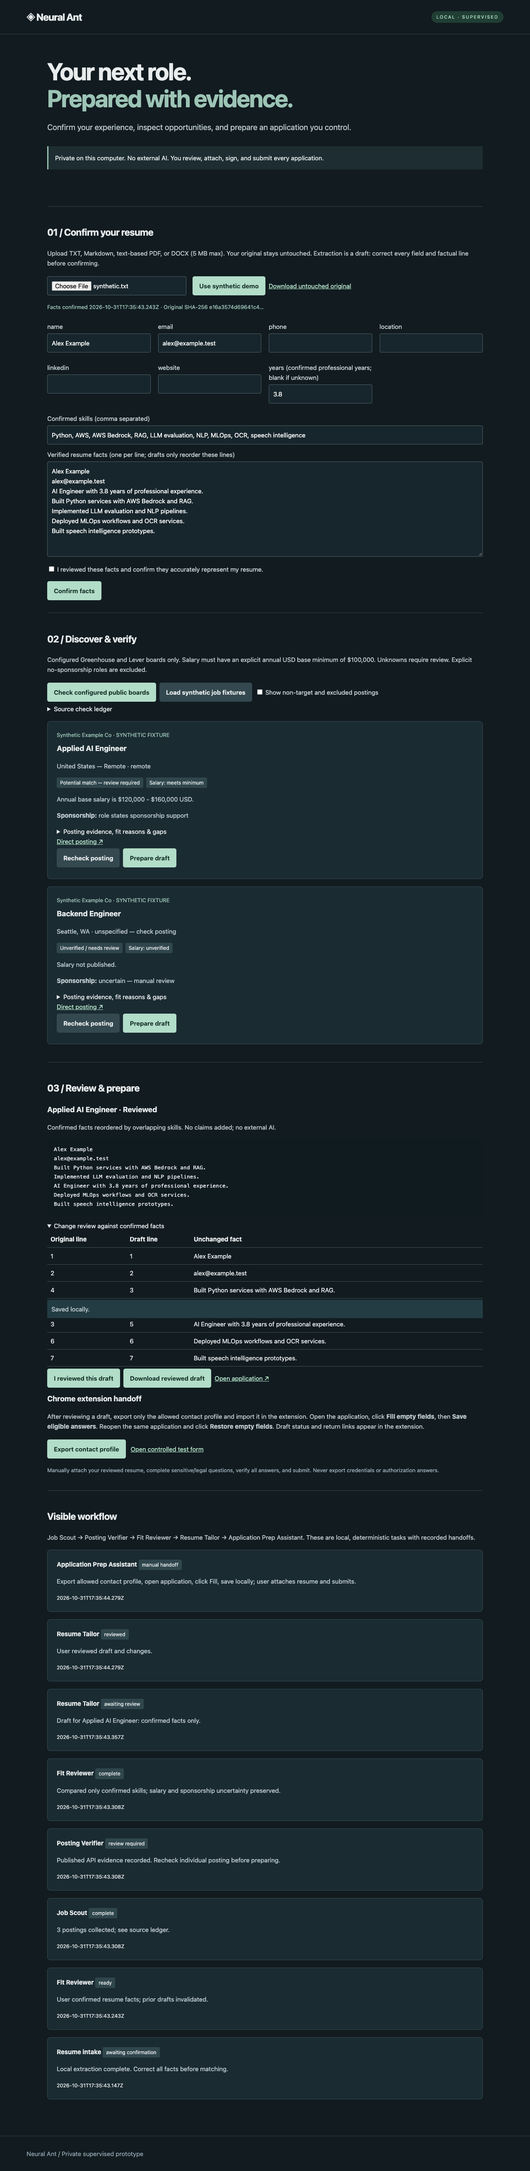
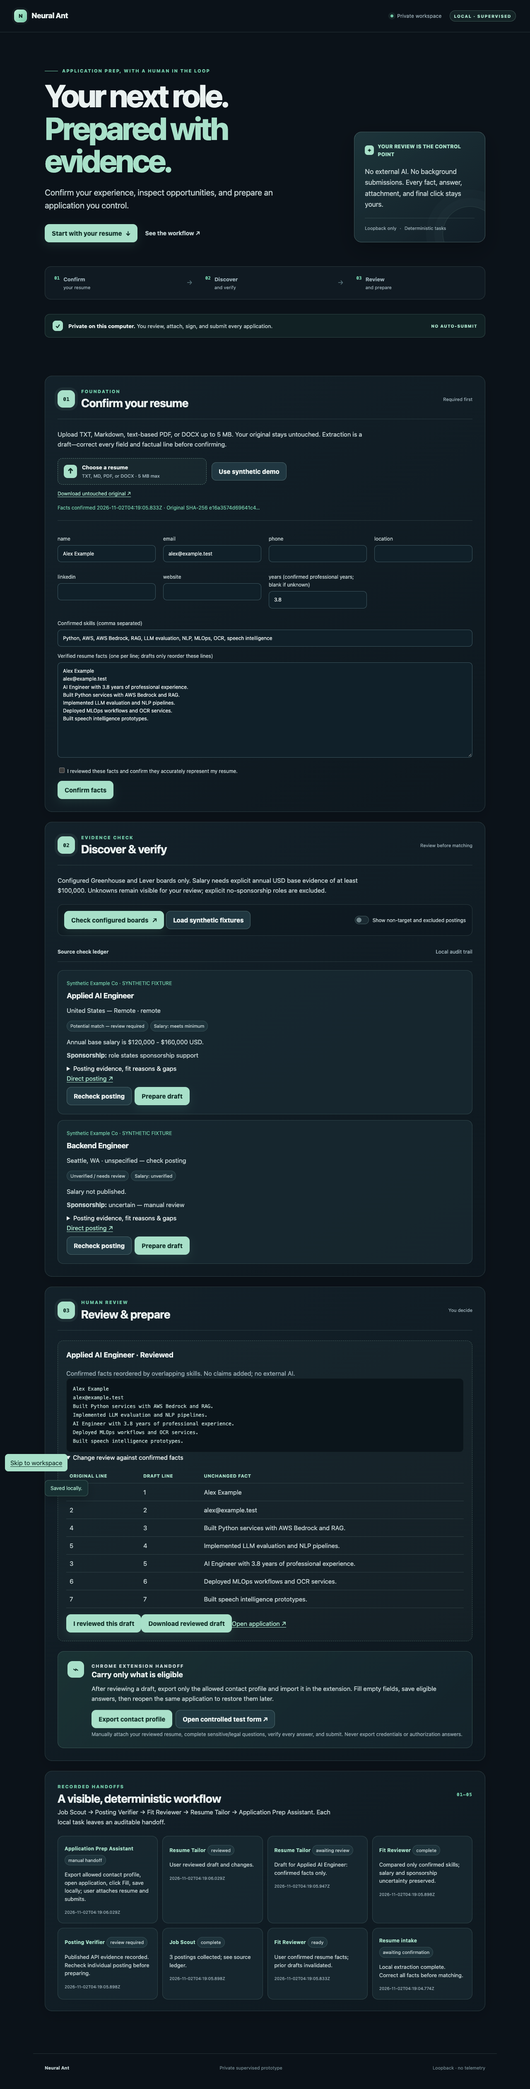
Refresh supervised prototype workspace UI

diff --git a/supervised-prototype/public/style.css b/supervised-prototype/public/style.css
@@ -1,1 +1,202 @@
-:root{font-family:Inter,ui-sans-serif,system-ui,sans-serif;color:#e8eced;background:#111b20;font-size:15px;line-height:1.6}*{box-sizing:border-box}body{margin:0}header{display:flex;justify-content:space-between;align-items:center;border-bottom:1px solid #304047;padding:22px 5vw}.brand{font-size:24px;font-weight:750;letter-spacing:-1px}.pill{color:#b5e4ca;background:#203e34;padding:5px 12px;border-radius:30px;font-size:11px;letter-spacing:2px}main{max-width:1100px;margin:auto;padding:45px 24px}h1{font-size:clamp(36px,5vw,58px);line-height:1.12;letter-spacing:-2px;margin:12px 0 22px}h1 span{color:#9cc4b5}.lede{font-size:19px;color:#b9c7cc}.notice{border-left:3px solid #9cc4b5;background:#1d2d32;padding:16px;margin:30px 0}section{border-top:1px solid #35444a;padding:25px 0}h2{font-size:23px;letter-spacing:-.5px}h3{font-size:18px;margin:8px 0}p{color:#becbd0}button,.button{border:0;border-radius:5px;background:#b2ddc8;color:#102a23;padding:11px 16px;font:inherit;font-weight:650;cursor:pointer;margin:5px 8px 5px 0}button:disabled{opacity:.4;cursor:wait}.secondary{background:#34484f;color:#e8eced}a{color:#b5e4ca}input,textarea{font:inherit;background:#17262c;border:1px solid #506168;border-radius:4px;padding:10px;color:#fff;width:100%;margin-top:5px}input[type=checkbox]{width:auto}input[type=file]{width:auto;margin-right:15px}label{display:block;color:#c8d5da;margin:12px 0}label.inline{display:inline-block}textarea{min-height:130px}#facts{min-height:230px}.grid{display:grid;grid-template-columns:repeat(auto-fit,minmax(230px,1fr));gap:0 18px}.card{background:#1b2b32;border:1px solid #354b52;padding:22px;margin:18px 0;border-radius:8px}.meta{color:#9cc4b5;font-size:13px}.muted{font-size:13px;color:#a3b6bf}pre{white-space:pre-wrap;overflow-wrap:anywhere;font:13px/1.7 ui-monospace,monospace;background:#101b20;padding:16px;max-height:450px;overflow:auto}.tag{display:inline-block;background:#30464d;padding:3px 8px;font-size:12px;border-radius:3px;margin-right:7px}.warning{color:#f3c78d}#status{position:sticky;top:0;background:#233c43;z-index:1;padding:10px}#status:empty{display:none}footer{padding:30px 5vw;border-top:1px solid #35444a;color:#8ea3ac}summary{cursor:pointer}table{width:100%;border-collapse:collapse}td,th{text-align:left;border-bottom:1px solid #40535a;padding:8px}
+:root {
+  color-scheme: dark;
+  font-family: Inter, ui-sans-serif, system-ui, -apple-system, BlinkMacSystemFont, "Segoe UI", sans-serif;
+  color: #eaf1f0;
+  background: #0b1219;
+  font-size: 15px;
+  line-height: 1.6;
+  --bg: #0b1219;
+  --surface: rgba(19, 31, 40, .82);
+  --surface-strong: #14232c;
+  --surface-soft: #172a33;
+  --line: rgba(173, 214, 205, .16);
+  --line-strong: rgba(173, 214, 205, .28);
+  --text: #eaf1f0;
+  --muted: #9eb1b9;
+  --muted-strong: #c3d1d2;
+  --mint: #a8e0c9;
+  --mint-strong: #72caa8;
+  --mint-ink: #0d2b24;
+  --amber: #f2c988;
+  --shadow: 0 18px 55px rgba(0, 0, 0, .25);
+  --radius: 18px;
+}
+
+* { box-sizing: border-box; }
+html { scroll-behavior: smooth; }
+body { min-width: 320px; margin: 0; overflow-x: hidden; background: radial-gradient(circle at 75% -10%, #1c3940 0, transparent 33rem), var(--bg); }
+body::before { position: fixed; inset: 0; z-index: -2; pointer-events: none; content: ""; opacity: .22; background-image: linear-gradient(rgba(171, 215, 205, .035) 1px, transparent 1px), linear-gradient(90deg, rgba(171, 215, 205, .035) 1px, transparent 1px); background-size: 48px 48px; mask-image: linear-gradient(to bottom, #000, transparent 86%); }
+a { color: var(--mint); text-underline-offset: 3px; }
+a:hover { color: #d7f7e9; }
+button, .button { display: inline-flex; align-items: center; justify-content: center; gap: 9px; min-height: 44px; border: 1px solid transparent; border-radius: 11px; padding: 10px 16px; color: var(--mint-ink); background: var(--mint); font: inherit; font-weight: 750; line-height: 1.2; cursor: pointer; text-decoration: none; box-shadow: 0 8px 22px rgba(112, 200, 166, .12); transition: transform .2s ease, box-shadow .2s ease, background .2s ease, border-color .2s ease; }
+button:hover:not(:disabled), .button:hover { transform: translateY(-2px); background: #c4eedb; box-shadow: 0 12px 28px rgba(112, 200, 166, .2); }
+button:active:not(:disabled), .button:active { transform: translateY(0); }
+button:disabled { cursor: not-allowed; opacity: .42; box-shadow: none; }
+button:focus-visible, a:focus-visible, input:focus-visible, textarea:focus-visible, summary:focus-visible { outline: 3px solid rgba(168, 224, 201, .72); outline-offset: 3px; }
+.button-primary { background: var(--mint); }
+.button-secondary, button.secondary { color: var(--text); background: rgba(36, 61, 70, .84); border-color: var(--line-strong); box-shadow: none; }
+.button-secondary:hover, button.secondary:hover:not(:disabled) { color: var(--text); background: #2d4c56; border-color: rgba(168, 224, 201, .5); }
+.skip-link { position: fixed; top: 12px; left: 12px; z-index: 10; padding: 9px 13px; color: var(--mint-ink); background: var(--mint); border-radius: 8px; transform: translateY(-150%); transition: transform .2s ease; }
+.skip-link:focus { transform: translateY(0); }
+.sr-only { position: absolute; width: 1px; height: 1px; padding: 0; overflow: hidden; clip: rect(0, 0, 0, 0); white-space: nowrap; border: 0; }
+.ambient { position: fixed; z-index: -1; width: 24rem; height: 24rem; border-radius: 999px; pointer-events: none; filter: blur(80px); opacity: .14; }
+.ambient-one { top: 20rem; left: -15rem; background: #56b794; }
+.ambient-two { top: 72rem; right: -14rem; background: #457ac2; }
+
+.site-header { display: flex; align-items: center; justify-content: space-between; max-width: 1280px; margin: 0 auto; padding: 23px 34px; border-bottom: 1px solid var(--line); }
+.brand { display: inline-flex; align-items: center; gap: 11px; color: var(--text); font-size: 18px; font-weight: 780; letter-spacing: -.5px; text-decoration: none; }
+.brand-mark { display: grid; width: 31px; height: 31px; place-items: center; color: #102a25; border: 1px solid rgba(255, 255, 255, .22); border-radius: 10px; background: linear-gradient(135deg, #b9efd5, #72c9a5); font-size: 13px; font-weight: 900; box-shadow: 0 0 0 5px rgba(168, 224, 201, .05); }
+.header-meta { display: flex; align-items: center; gap: 9px; color: var(--muted); font-size: 12px; letter-spacing: .02em; }
+.privacy-dot { width: 7px; height: 7px; border-radius: 50%; background: var(--mint-strong); box-shadow: 0 0 0 5px rgba(114, 202, 168, .1); }
+.pill { display: inline-flex; align-items: center; min-height: 27px; margin-left: 10px; padding: 4px 10px; color: var(--mint); border: 1px solid rgba(168, 224, 201, .25); border-radius: 99px; background: rgba(77, 145, 121, .13); font-size: 10px; font-weight: 800; letter-spacing: 1.5px; }
+
+main { max-width: 1120px; margin: 0 auto; padding: 64px 28px 78px; }
+.hero { display: grid; grid-template-columns: minmax(0, 1.35fr) minmax(290px, .65fr); gap: clamp(28px, 7vw, 94px); align-items: end; padding: 22px 0 58px; }
+.eyebrow, .section-kicker { margin: 0 0 14px; color: var(--mint-strong); font-size: 11px; font-weight: 800; letter-spacing: 1.8px; line-height: 1.3; text-transform: uppercase; }
+.eyebrow { display: flex; align-items: center; gap: 10px; }
+.eyebrow-line { width: 32px; height: 1px; background: var(--mint-strong); }
+h1 { max-width: 740px; margin: 0 0 22px; color: var(--text); font-size: clamp(42px, 7vw, 76px); font-weight: 780; letter-spacing: -4px; line-height: 1.03; }
+h1 span { color: var(--mint); }
+.lede { max-width: 580px; margin: 0; color: var(--muted-strong); font-size: clamp(17px, 2.2vw, 20px); line-height: 1.55; }
+.hero-actions { display: flex; flex-wrap: wrap; align-items: center; gap: 18px; margin-top: 30px; }
+.text-link { color: var(--muted-strong); font-size: 14px; font-weight: 680; text-decoration: none; }
+.text-link:hover { color: var(--mint); }
+.hero-panel { position: relative; overflow: hidden; padding: 25px; border: 1px solid var(--line-strong); border-radius: var(--radius); background: linear-gradient(145deg, rgba(35, 64, 69, .76), rgba(18, 31, 40, .9)); box-shadow: var(--shadow); }
+.hero-panel::after { position: absolute; right: -30px; bottom: -46px; width: 130px; height: 130px; border: 1px solid rgba(168, 224, 201, .14); border-radius: 50%; content: ""; box-shadow: 0 0 0 20px rgba(168, 224, 201, .025), 0 0 0 40px rgba(168, 224, 201, .025); }
+.panel-kicker { display: flex; align-items: center; gap: 9px; color: var(--mint); font-size: 12px; font-weight: 800; letter-spacing: .02em; text-transform: uppercase; }
+.shield { display: grid; width: 23px; height: 23px; place-items: center; color: var(--mint-ink); border-radius: 7px; background: var(--mint); font-size: 12px; }
+.hero-panel p:not(.panel-kicker) { margin: 19px 0; color: var(--muted-strong); font-size: 16px; line-height: 1.65; }
+.panel-rule { height: 1px; background: var(--line); }
+.panel-foot { display: flex; gap: 8px; margin-top: 15px; color: var(--muted); font-size: 11px; }
+
+.progress-nav { display: flex; align-items: stretch; gap: 15px; margin: 0 0 35px; padding: 6px; border: 1px solid var(--line); border-radius: 15px; background: rgba(18, 30, 38, .65); }
+.progress-nav a { display: grid; grid-template-columns: auto 1fr; column-gap: 9px; min-width: 0; flex: 1; padding: 14px 16px; border-radius: 10px; color: var(--muted); text-decoration: none; transition: background .2s ease, color .2s ease; }
+.progress-nav a:hover { color: var(--text); background: rgba(168, 224, 201, .08); }
+.progress-nav a span { grid-row: span 2; color: var(--mint-strong); font: 800 11px/1.4 ui-monospace, SFMono-Regular, Menlo, monospace; }
+.progress-nav a strong { color: inherit; font-size: 13px; }
+.progress-nav a small { color: var(--muted); font-size: 11px; }
+.progress-arrow { display: grid; place-items: center; color: #577279; font-size: 16px; }
+.notice { display: flex; align-items: center; gap: 13px; }
+.notice-prominent { margin: 0 0 28px; padding: 15px 18px; color: var(--muted-strong); border: 1px solid rgba(168, 224, 201, .18); border-radius: 12px; background: rgba(31, 65, 58, .32); font-size: 13px; }
+.notice-prominent strong { color: var(--text); }
+.notice-icon { display: grid; width: 25px; height: 25px; flex: 0 0 auto; place-items: center; color: var(--mint-ink); border-radius: 8px; background: var(--mint); font-size: 13px; font-weight: 900; }
+.notice-label { margin-left: auto; color: var(--mint); font-size: 10px; font-weight: 800; letter-spacing: 1.2px; text-transform: uppercase; white-space: nowrap; }
+#status { position: sticky; top: 12px; z-index: 3; max-width: max-content; margin: 0 0 20px; padding: 9px 13px; color: var(--mint); border: 1px solid rgba(168, 224, 201, .24); border-radius: 9px; background: #172f32; box-shadow: 0 8px 24px rgba(0, 0, 0, .2); font-size: 12px; }
+#status:empty { display: none; }
+
+.workspace-section, .workflow-section { position: relative; margin: 24px 0; padding: 30px; border: 1px solid var(--line); border-radius: var(--radius); background: linear-gradient(145deg, rgba(20, 35, 44, .86), rgba(14, 25, 32, .82)); box-shadow: 0 10px 38px rgba(0, 0, 0, .13); animation: rise-in .65s both; }
+.workspace-section:nth-of-type(2) { animation-delay: .08s; }
+.workspace-section:nth-of-type(3) { animation-delay: .16s; }
+.section-heading { display: flex; align-items: center; gap: 15px; padding-bottom: 22px; border-bottom: 1px solid var(--line); }
+.section-heading-compact { border-bottom: 0; padding-bottom: 4px; }
+.step-number { display: grid; width: 42px; height: 42px; flex: 0 0 auto; place-items: center; color: var(--mint-ink); border-radius: 13px; background: var(--mint); font: 850 13px/1 ui-monospace, SFMono-Regular, Menlo, monospace; box-shadow: 0 0 0 7px rgba(168, 224, 201, .07); }
+.section-heading h2 { margin: 0; color: var(--text); font-size: clamp(22px, 3vw, 28px); letter-spacing: -.8px; line-height: 1.15; }
+.section-heading .section-kicker { margin-bottom: 5px; }
+.section-state { margin-left: auto; color: var(--muted); font-size: 11px; white-space: nowrap; }
+.section-body { padding-top: 24px; }
+.section-intro { max-width: 770px; }
+.section-intro p, .workflow-intro { margin: 0 0 22px; color: var(--muted-strong); }
+.upload-row, .action-bar { display: flex; align-items: center; flex-wrap: wrap; gap: 12px; }
+.file-picker { position: relative; display: flex; align-items: center; gap: 12px; min-width: min(100%, 360px); margin: 0; padding: 11px 14px; color: var(--text); border: 1px dashed rgba(168, 224, 201, .42); border-radius: 12px; background: rgba(168, 224, 201, .045); cursor: pointer; transition: border-color .2s ease, background .2s ease, transform .2s ease; }
+.file-picker:hover, .file-picker:focus-within { border-color: var(--mint); background: rgba(168, 224, 201, .1); transform: translateY(-1px); }
+.file-picker input { position: absolute; width: 1px; height: 1px; overflow: hidden; opacity: 0; }
+.file-icon { display: grid; width: 32px; height: 32px; place-items: center; color: var(--mint-ink); border-radius: 9px; background: var(--mint); font-size: 18px; font-weight: 900; }
+.file-picker strong, .file-picker small { display: block; }
+.file-picker strong { font-size: 13px; }
+.file-picker small { margin-top: 1px; color: var(--muted); font-size: 11px; font-weight: 500; }
+.inline-links { min-height: 22px; margin-top: 12px; font-size: 12px; }
+.action-bar { justify-content: space-between; align-items: center; margin: 22px 0 19px; padding: 15px; border: 1px solid var(--line); border-radius: 13px; background: rgba(8, 18, 24, .34); }
+.action-buttons { display: flex; flex-wrap: wrap; gap: 5px; }
+.action-buttons button { margin: 0; }
+.switch-label { display: inline-flex; align-items: center; gap: 9px; margin: 0; color: var(--muted-strong); font-size: 12px; cursor: pointer; }
+.switch-label input { position: absolute; width: 1px; height: 1px; opacity: 0; }
+.switch { position: relative; width: 34px; height: 20px; border: 1px solid var(--line-strong); border-radius: 99px; background: #1a2a32; transition: background .2s ease, border-color .2s ease; }
+.switch::after { position: absolute; top: 3px; left: 3px; width: 12px; height: 12px; border-radius: 50%; background: #71868b; content: ""; transition: transform .2s ease, background .2s ease; }
+.switch-label input:checked + .switch { border-color: var(--mint-strong); background: rgba(114, 202, 168, .3); }
+.switch-label input:checked + .switch::after { transform: translateX(14px); background: var(--mint); }
+.switch-label input:focus-visible + .switch { outline: 3px solid rgba(168, 224, 201, .72); outline-offset: 3px; }
+.ledger { margin: 0 0 20px; border-bottom: 1px solid var(--line); }
+.ledger summary { display: flex; align-items: center; justify-content: space-between; padding: 10px 0 14px; color: var(--muted-strong); font-size: 12px; font-weight: 700; list-style-position: inside; }
+.summary-hint { color: var(--muted); font-weight: 500; }
+.ledger pre { margin-bottom: 16px; }
+
+#intake form { margin-top: 21px; padding-top: 21px; border-top: 1px solid var(--line); }
+.meta { color: var(--mint-strong); font-size: 12px; }
+label { display: block; margin: 13px 0; color: var(--muted-strong); font-size: 12px; }
+input, textarea { width: 100%; margin-top: 6px; padding: 10px 12px; color: var(--text); border: 1px solid #3b555e; border-radius: 9px; outline: none; background: #102029; font: inherit; transition: border-color .2s ease, box-shadow .2s ease, background .2s ease; }
+input:hover, textarea:hover { border-color: #58747b; }
+input:focus, textarea:focus { border-color: var(--mint-strong); background: #122630; box-shadow: 0 0 0 4px rgba(114, 202, 168, .1); }
+input[type=checkbox] { width: auto; accent-color: var(--mint-strong); }
+.grid { display: grid; grid-template-columns: repeat(auto-fit, minmax(220px, 1fr)); gap: 0 18px; }
+textarea { min-height: 130px; resize: vertical; }
+#facts { min-height: 230px; }
+
+.results-stack { display: grid; gap: 14px; }
+.card { position: relative; margin: 0; padding: 21px; border: 1px solid var(--line); border-radius: 14px; background: rgba(24, 43, 51, .7); transition: border-color .2s ease, transform .2s ease, background .2s ease; }
+.card:hover { border-color: var(--line-strong); background: rgba(27, 50, 59, .82); transform: translateY(-2px); }
+.card h3 { margin: 7px 0; color: var(--text); font-size: 18px; letter-spacing: -.35px; }
+.card p { margin: 8px 0; color: var(--muted-strong); }
+.card pre { margin: 12px 0; }
+.card button { margin: 9px 7px 0 0; }
+.tag { display: inline-flex; align-items: center; min-height: 23px; margin: 5px 5px 5px 0; padding: 3px 8px; color: var(--muted-strong); border: 1px solid var(--line); border-radius: 99px; background: rgba(74, 110, 117, .18); font-size: 11px; }
+.warning { color: var(--amber); }
+details summary { cursor: pointer; }
+pre { max-height: 450px; overflow: auto; margin: 0; padding: 15px; color: #b8d0cb; border: 1px solid rgba(168, 224, 201, .08); border-radius: 10px; background: #0b151b; white-space: pre-wrap; overflow-wrap: anywhere; font: 12px/1.75 ui-monospace, SFMono-Regular, Menlo, monospace; }
+
+.draft-surface { min-height: 75px; padding: 20px; border: 1px dashed rgba(168, 224, 201, .26); border-radius: 14px; background: rgba(168, 224, 201, .035); }
+.draft-surface > p { margin: 0; color: var(--muted); }
+.draft-surface h3 { margin-top: 0; color: var(--text); }
+.draft-surface table { margin: 15px 0; }
+table { width: 100%; border-collapse: collapse; }
+td, th { padding: 9px 8px; color: var(--muted-strong); border-bottom: 1px solid var(--line); text-align: left; vertical-align: top; }
+th { color: var(--mint); font-size: 11px; letter-spacing: .05em; text-transform: uppercase; }
+.handoff-card { display: grid; grid-template-columns: auto 1fr; gap: 18px; margin-top: 24px; padding: 23px; border: 1px solid rgba(168, 224, 201, .2); border-radius: 15px; background: linear-gradient(135deg, rgba(39, 77, 72, .44), rgba(21, 39, 48, .7)); }
+.handoff-icon { display: grid; width: 40px; height: 40px; place-items: center; color: var(--mint-ink); border-radius: 12px; background: var(--mint); font-size: 23px; }
+.handoff-card h3 { margin: 0 0 6px; color: var(--text); font-size: 18px; }
+.handoff-card p { margin: 5px 0 0; color: var(--muted-strong); }
+.handoff-actions { display: flex; flex-wrap: wrap; gap: 8px; margin-top: 16px; }
+.handoff-actions .button { margin: 0; }
+.muted { color: var(--muted) !important; font-size: 12px; }
+
+.workflow-section { padding-bottom: 27px; }
+.workflow-mark { margin-left: auto; color: var(--mint-strong); font: 700 11px ui-monospace, SFMono-Regular, Menlo, monospace; letter-spacing: 1px; }
+.workflow-intro { max-width: 680px; }
+.workflow-list { display: grid; grid-template-columns: repeat(auto-fit, minmax(210px, 1fr)); gap: 11px; }
+.workflow-list .card { min-height: 145px; padding: 16px; }
+.workflow-list .card strong { color: var(--mint); font-size: 12px; letter-spacing: .02em; }
+.workflow-list .card p { font-size: 13px; line-height: 1.5; }
+.workflow-list .card small { color: var(--muted); font-size: 10px; }
+.site-footer { display: flex; justify-content: space-between; max-width: 1120px; margin: 0 auto; padding: 25px 28px 42px; color: #71868d; border-top: 1px solid var(--line); font-size: 11px; }
+.site-footer span:first-child { color: var(--muted-strong); font-weight: 700; }
+
+@keyframes rise-in { from { opacity: 0; transform: translateY(9px); } to { opacity: 1; transform: translateY(0); } }
+@media (max-width: 720px) {
+  .site-header { padding: 17px 18px; }
+  .header-meta > span:not(.privacy-dot):not(.pill) { display: none; }
+  .pill { margin-left: 0; }
+  main { padding: 38px 16px 56px; }
+  .hero { grid-template-columns: 1fr; gap: 28px; padding-top: 12px; padding-bottom: 40px; }
+  h1 { font-size: clamp(42px, 13vw, 62px); letter-spacing: -3px; }
+  .progress-nav { gap: 2px; padding: 4px; }
+  .progress-nav a { padding: 11px 9px; }
+  .progress-nav a small, .progress-arrow { display: none; }
+  .progress-nav a strong { font-size: 11px; }
+  .notice-prominent { align-items: flex-start; flex-wrap: wrap; }
+  .notice-label { width: 100%; margin-left: 38px; }
+  .workspace-section, .workflow-section { padding: 21px 17px; border-radius: 15px; }
+  .section-heading { align-items: flex-start; }
+  .section-state { margin-top: 5px; font-size: 10px; white-space: normal; text-align: right; }
+  .section-body { padding-top: 19px; }
+  .upload-row, .action-bar { align-items: stretch; flex-direction: column; }
+  .file-picker { width: 100%; }
+  .upload-row .button, .action-buttons, .action-buttons button { width: 100%; }
+  .switch-label { align-self: flex-start; }
+  .handoff-card { grid-template-columns: 1fr; }
+  .workflow-mark { display: none; }
+  .site-footer { flex-direction: column; gap: 5px; padding: 21px 16px 30px; }
+  .draft-surface { overflow-x: auto; }
+}
+@media (prefers-reduced-motion: reduce) {
+  html { scroll-behavior: auto; }
+  *, *::before, *::after { animation-duration: .001ms !important; animation-iteration-count: 1 !important; transition-duration: .001ms !important; }
+}

diff --git a/supervised-prototype/public/index.html b/supervised-prototype/public/index.html
@@ -1,8 +1,121 @@
-<!doctype html><html lang="en"><head><meta charset="utf-8"><meta name="viewport" content="width=device-width,initial-scale=1"><title>Neural Ant · Private workspace</title><link rel="stylesheet" href="/style.css"></head><body>
-<header><div class="brand">◈ Neural Ant</div><span class="pill">LOCAL · SUPERVISED</span></header>
-<main><h1>Your next role.<br><span>Prepared with evidence.</span></h1><p class="lede">Confirm your experience, inspect opportunities, and prepare an application you control.</p><div class="notice">Private on this computer. No external AI. You review, attach, sign, and submit every application.</div>
-<p id="status" role="status"></p>
-<section><h2>01 / Confirm your resume</h2><p>Upload TXT, Markdown, text-based PDF, or DOCX (5 MB max). Your original stays untouched. Extraction is a draft: correct every field and factual line before confirming.</p><input id="upload" type="file" accept=".txt,.md,.pdf,.docx"><button id="demo">Use synthetic demo</button><a href="/api/original" id="original" hidden>Download untouched original</a><div id="intake"></div></section>
-<section><h2>02 / Discover & verify</h2><p>Configured Greenhouse and Lever boards only. Salary must have an explicit annual USD base minimum of $100,000. Unknowns require review. Explicit no-sponsorship roles are excluded.</p><button id="scout">Check configured public boards</button><button id="fixtures" class="secondary">Load synthetic job fixtures</button><label class="inline"><input type="checkbox" id="all"> Show non-target and excluded postings</label><details><summary>Source check ledger</summary><pre id="checks"></pre></details><div id="jobs"></div></section>
-<section><h2>03 / Review & prepare</h2><div id="draft"><p>Select a posting to create a separate tailored draft.</p></div><h3>Chrome extension handoff</h3><p>After reviewing a draft, export only the allowed contact profile and import it in the extension. Open the application, click <strong>Fill empty fields</strong>, then <strong>Save eligible answers</strong>. Reopen the same application and click <strong>Restore empty fields</strong>. Draft status and return links appear in the extension.</p><button id="export">Export contact profile</button> <a href="/test-application" target="_blank" rel="noopener">Open controlled test form</a><p class="muted">Manually attach your reviewed resume, complete sensitive/legal questions, verify all answers, and submit. Never export credentials or authorization answers.</p></section>
-<section><h2>Visible workflow</h2><p>Job Scout → Posting Verifier → Fit Reviewer → Resume Tailor → Application Prep Assistant. These are local, deterministic tasks with recorded handoffs.</p><div id="workflow"></div></section></main><footer>Neural Ant / Private supervised prototype</footer><script src="/app.js"></script></body></html>
+<!doctype html>
+<html lang="en">
+<head>
+  <meta charset="utf-8">
+  <meta name="viewport" content="width=device-width,initial-scale=1">
+  <meta name="theme-color" content="#0b1219">
+  <title>Neural Ant · Private workspace</title>
+  <link rel="stylesheet" href="/style.css">
+</head>
+<body>
+  <a class="skip-link" href="#main-content">Skip to workspace</a>
+  <div class="ambient ambient-one" aria-hidden="true"></div>
+  <div class="ambient ambient-two" aria-hidden="true"></div>
+
+  <header class="site-header">
+    <a class="brand" href="/" aria-label="Neural Ant home">
+      <span class="brand-mark" aria-hidden="true">N</span>
+      <span>Neural Ant</span>
+    </a>
+    <div class="header-meta">
+      <span class="privacy-dot" aria-hidden="true"></span>
+      <span>Private workspace</span>
+      <span class="pill">LOCAL · SUPERVISED</span>
+    </div>
+  </header>
+
+  <main id="main-content">
+    <section class="hero" aria-labelledby="page-title">
+      <div class="hero-copy">
+        <p class="eyebrow"><span class="eyebrow-line"></span> Application prep, with a human in the loop</p>
+        <h1 id="page-title">Your next role.<br><span>Prepared with evidence.</span></h1>
+        <p class="lede">Confirm your experience, inspect opportunities, and prepare an application you control.</p>
+        <div class="hero-actions" aria-label="Workspace shortcuts">
+          <a class="button button-primary" href="#resume">Start with your resume <span aria-hidden="true">↓</span></a>
+          <a class="text-link" href="#workflow-section">See the workflow <span aria-hidden="true">↗</span></a>
+        </div>
+      </div>
+      <aside class="hero-panel" aria-label="Privacy promise">
+        <div class="panel-kicker"><span class="shield" aria-hidden="true">✦</span> Your review is the control point</div>
+        <p>No external AI. No background submissions. Every fact, answer, attachment, and final click stays yours.</p>
+        <div class="panel-rule"></div>
+        <div class="panel-foot"><span>Loopback only</span><span>·</span><span>Deterministic tasks</span></div>
+      </aside>
+    </section>
+
+    <nav class="progress-nav" aria-label="Workspace steps">
+      <a href="#resume"><span>01</span><strong>Confirm</strong><small>your resume</small></a>
+      <span class="progress-arrow" aria-hidden="true">→</span>
+      <a href="#discover"><span>02</span><strong>Discover</strong><small>and verify</small></a>
+      <span class="progress-arrow" aria-hidden="true">→</span>
+      <a href="#prepare"><span>03</span><strong>Review</strong><small>and prepare</small></a>
+    </nav>
+
+    <div class="notice notice-prominent" role="note">
+      <span class="notice-icon" aria-hidden="true">✓</span>
+      <div><strong>Private on this computer.</strong> You review, attach, sign, and submit every application.</div>
+      <span class="notice-label">No auto-submit</span>
+    </div>
+    <p id="status" role="status" aria-live="polite" aria-atomic="true"></p>
+
+    <section id="resume" class="workspace-section" aria-labelledby="resume-title">
+      <div class="section-heading">
+        <div class="step-number">01</div>
+        <div><p class="section-kicker">Foundation</p><h2 id="resume-title">Confirm your resume</h2></div>
+        <span class="section-state">Required first</span>
+      </div>
+      <div class="section-body">
+        <div class="section-intro"><p>Upload TXT, Markdown, text-based PDF, or DOCX up to 5 MB. Your original stays untouched. Extraction is a draft—correct every field and factual line before confirming.</p></div>
+        <div class="upload-row">
+          <label class="file-picker" for="upload"><span class="file-icon" aria-hidden="true">↑</span><span><strong>Choose a resume</strong><small>TXT, MD, PDF, or DOCX · 5 MB max</small></span><input id="upload" type="file" accept=".txt,.md,.pdf,.docx" aria-describedby="upload-help"></label>
+          <span id="upload-help" class="sr-only">The file is processed locally and the original is preserved.</span>
+          <button id="demo" class="button button-secondary" type="button">Use synthetic demo</button>
+        </div>
+        <div class="inline-links"><a href="/api/original" id="original" hidden>Download untouched original ↗</a></div>
+        <div id="intake"></div>
+      </div>
+    </section>
+
+    <section id="discover" class="workspace-section" aria-labelledby="discover-title">
+      <div class="section-heading">
+        <div class="step-number">02</div>
+        <div><p class="section-kicker">Evidence check</p><h2 id="discover-title">Discover &amp; verify</h2></div>
+        <span class="section-state">Review before matching</span>
+      </div>
+      <div class="section-body">
+        <div class="section-intro"><p>Configured Greenhouse and Lever boards only. Salary needs explicit annual USD base evidence of at least $100,000. Unknowns remain visible for your review; explicit no-sponsorship roles are excluded.</p></div>
+        <div class="action-bar">
+          <div class="action-buttons"><button id="scout" class="button button-primary" type="button">Check configured boards <span aria-hidden="true">↗</span></button><button id="fixtures" class="button button-secondary" type="button">Load synthetic fixtures</button></div>
+          <label class="switch-label"><input type="checkbox" id="all"><span class="switch" aria-hidden="true"></span><span>Show non-target and excluded postings</span></label>
+        </div>
+        <details class="ledger"><summary><span>Source check ledger</span><span class="summary-hint">Local audit trail</span></summary><pre id="checks"></pre></details>
+        <div id="jobs" class="results-stack"></div>
+      </div>
+    </section>
+
+    <section id="prepare" class="workspace-section" aria-labelledby="prepare-title">
+      <div class="section-heading">
+        <div class="step-number">03</div>
+        <div><p class="section-kicker">Human review</p><h2 id="prepare-title">Review &amp; prepare</h2></div>
+        <span class="section-state">You decide</span>
+      </div>
+      <div class="section-body">
+        <div id="draft" class="draft-surface"><p>Select a posting to create a separate tailored draft.</p></div>
+        <div class="handoff-card">
+          <div class="handoff-icon" aria-hidden="true">⌁</div>
+          <div><p class="section-kicker">Chrome extension handoff</p><h3>Carry only what is eligible</h3><p>After reviewing a draft, export only the allowed contact profile and import it in the extension. Fill empty fields, save eligible answers, then reopen the same application to restore them later.</p><div class="handoff-actions"><button id="export" class="button button-primary" type="button">Export contact profile</button><a class="button button-secondary" href="/test-application" target="_blank" rel="noopener">Open controlled test form ↗</a></div><p class="muted">Manually attach your reviewed resume, complete sensitive/legal questions, verify every answer, and submit. Never export credentials or authorization answers.</p></div>
+        </div>
+      </div>
+    </section>
+
+    <section id="workflow-section" class="workflow-section" aria-labelledby="workflow-title">
+      <div class="section-heading section-heading-compact"><div><p class="section-kicker">Recorded handoffs</p><h2 id="workflow-title">A visible, deterministic workflow</h2></div><span class="workflow-mark" aria-hidden="true">01—05</span></div>
+      <p class="workflow-intro">Job Scout → Posting Verifier → Fit Reviewer → Resume Tailor → Application Prep Assistant. Each local task leaves an auditable handoff.</p>
+      <div id="workflow" class="workflow-list" aria-live="polite"></div>
+    </section>
+  </main>
+
+  <footer class="site-footer"><span>Neural Ant</span><span>Private supervised prototype</span><span>Loopback · no telemetry</span></footer>
+  <script src="/app.js"></script>
+</body>
+</html>
